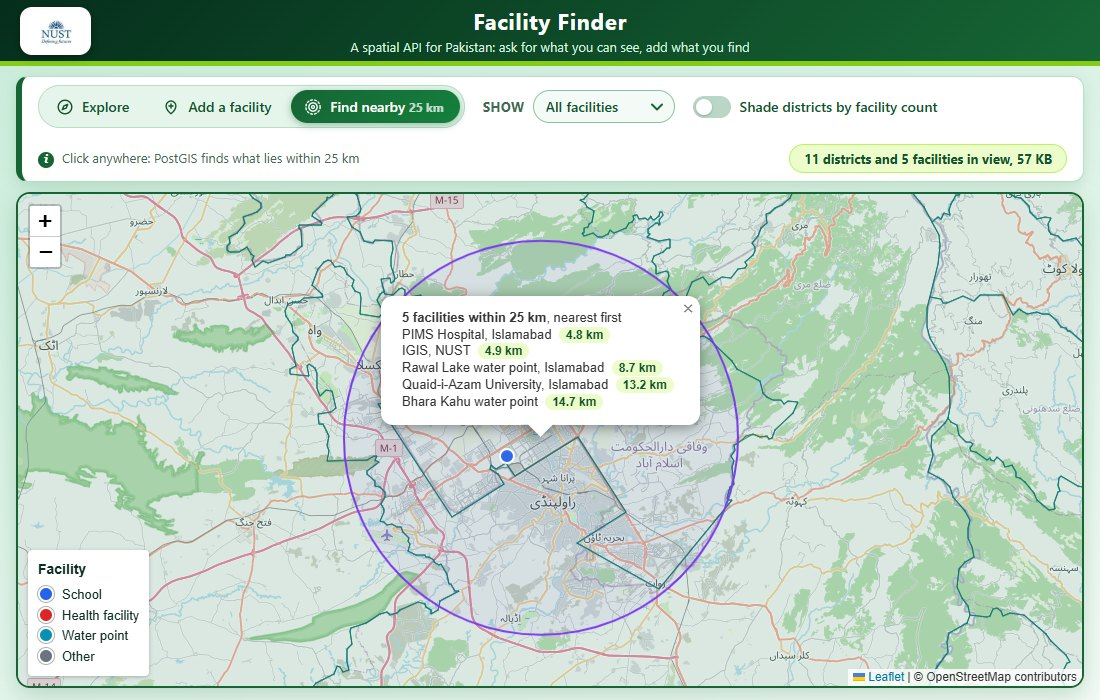
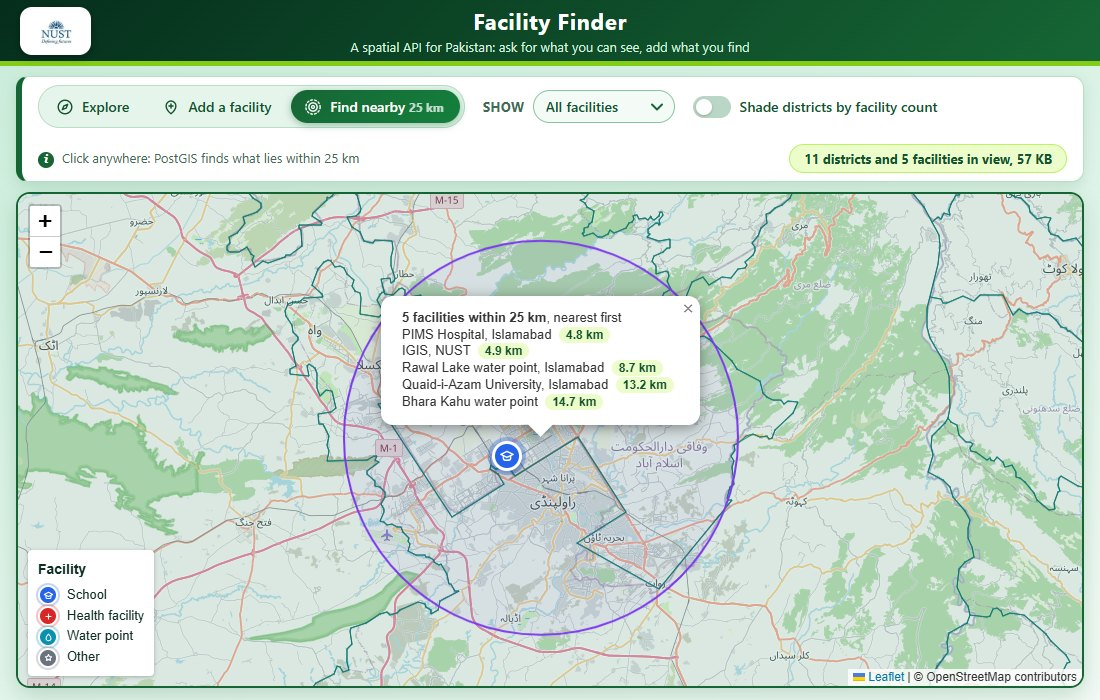
Lab 05: report note about the pins; refresh the landing page card image

Changed region(s): [[0.0309, 0.78, 0.1545, 0.96], [0.4327, 0.63, 0.4945, 0.69]]

diff --git a/lab-5-Spatial_API/report.md b/lab-5-Spatial_API/report.md
@@ -182,6 +182,8 @@ This project needs Django and a database, so it has no live URL. GitHub Pages se
 
 To give the menu and the shading something to show, I added 14 well-known places across the provinces (hospitals, universities, the Minar-e-Pakistan, a lake) through the API itself. Their positions are approximate, to about a kilometre. With the five from the checkpoints there are 19 facilities: 9 health, 6 school, 2 water, 2 other.
 
+At the end of the lab I replaced the plain circle markers with pins: a coloured disc with a white ring and a halo and a symbol of its kind inside (a cross for health, a mortarboard for schools, a drop for water, a star for the rest). The screenshots in this report were taken before that change and show the circles; the snapshot and the landing page card show the pins. Pins are HTML elements, so when more than 500 facilities are in view (the 10,000-point test at zoom 6 had 3,959) the map draws small plain dots instead, and the pins return as you zoom in.
+
 ### 1. Load the facilities by view too
 The facilities now ask for `?in_bbox=…` on every move, with the same "cancel the old request" pattern as the districts, and the status line reports both answers. **Check, with 9,964 facilities** (the 5 real ones plus 9,959 random points inside the real districts, named "Load test N" and deleted afterwards): the old page fetched everything, 2,228 kB in 23.12 s, and drew 9,964 markers. The new page asks for `facilities/?in_bbox=72.0731,33.1192,73.9243,34.0800`: 47.5 kB in 1.04 s, 211 markers.
 
